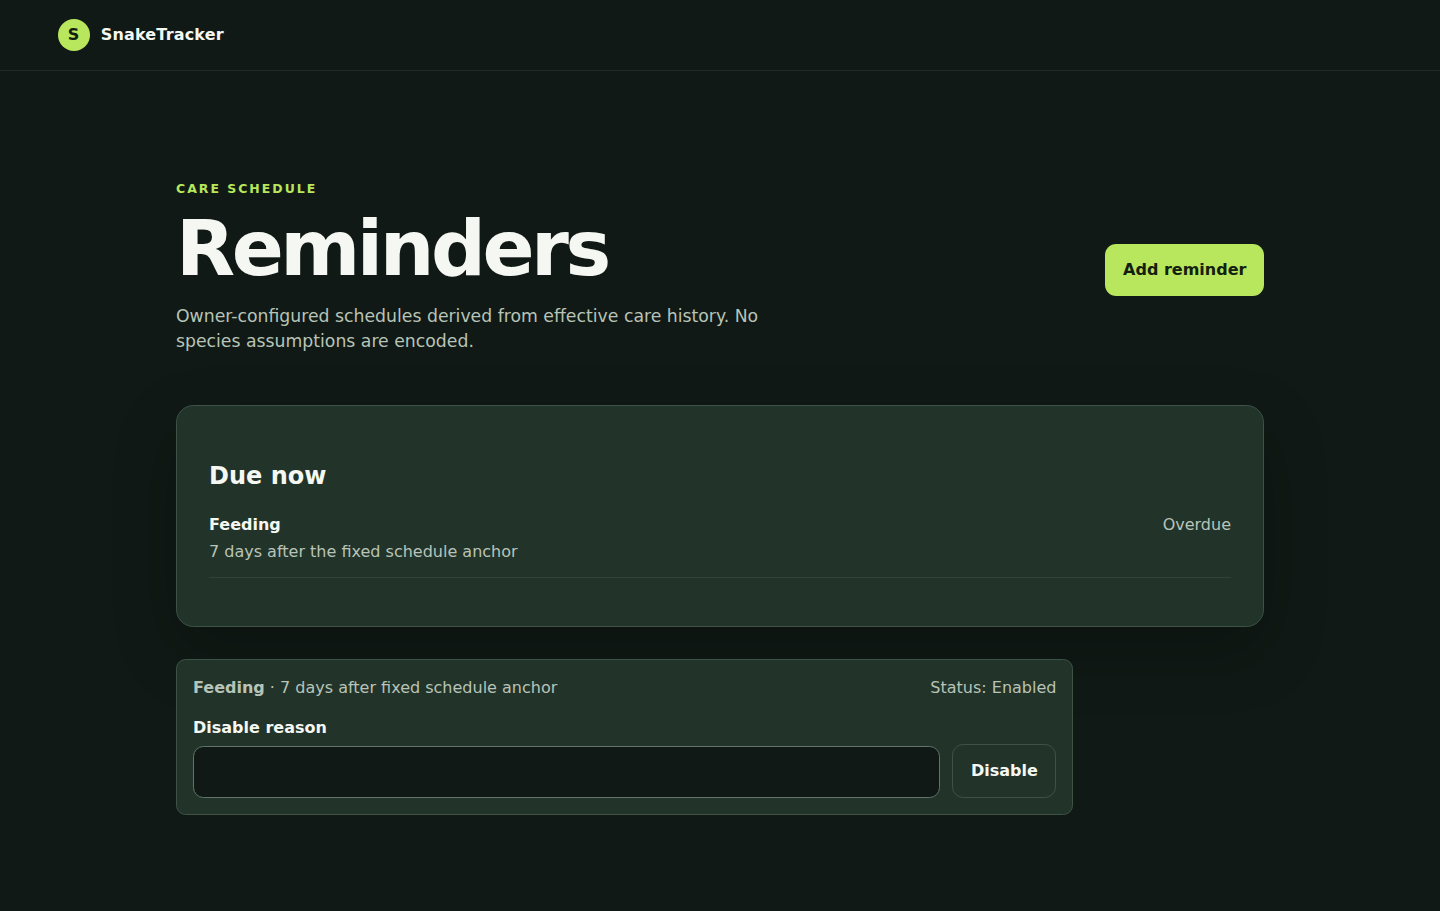
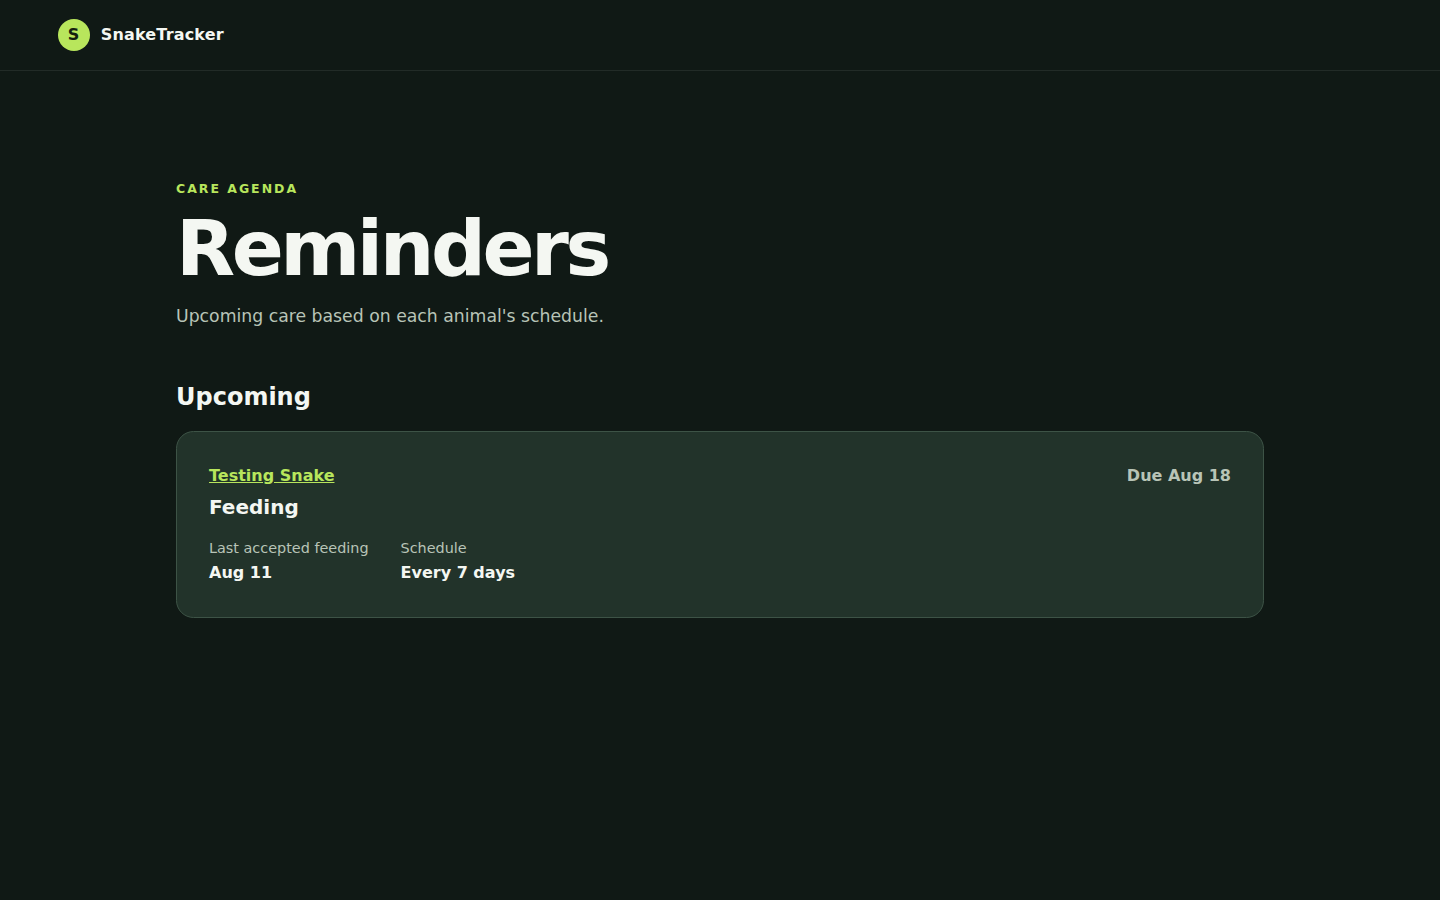
docs: requalify M5 reminder experience

diff --git a/docs/evidence/m5-operations/browser/README.md b/docs/evidence/m5-operations/browser/README.md
@@ -2,22 +2,26 @@
 
 Result: **Pass**
 
-Source revision: `f976b4622a0f72bd165c906cdc8ab5d72a399cc6`  
-Browser: Playwright Chromium against an isolated fresh Docker database.  
+Source revision: `567887cc95702fa0407cebdf12d33e22b11dd8fb`
+Browser: Playwright Chromium against an isolated fresh Docker database.
 Reviewer: Codex local qualification; owner acceptance pending.
 
-The real-browser run completed first household setup, authentication, inventory creation, stock
-receipt, animal creation, authorized expense entry, and a fixed-schedule reminder. The reminder
-rendered as due with a human-readable explanation. The browser console reported zero errors and
-zero warnings. A 390 by 844 viewport had a 390-pixel document width, proving no horizontal
-overflow on the reminder workflow.
+The original real-browser run completed first household setup, authentication, inventory creation,
+stock receipt, animal creation, and authorized expense entry. The corrected reminder-UX run used a
+fresh isolated Docker database, recorded an accepted feeding, configured a seven-day feeding
+schedule from the animal profile, and verified the resulting upcoming agenda item. The normal
+agenda exposed neither an Add Reminder action nor rule-disable administration. The browser console
+reported zero errors and zero warnings. Both the animal schedule and agenda had a 390-pixel
+document width at a 390 by 844 viewport, proving no horizontal overflow.
 
 Retained screenshots:
 
 - [Desktop home](desktop-home.png)
 - [Desktop inventory](desktop-inventory.png)
 - [Desktop expense detail](desktop-expense-detail.png)
+- [Desktop animal care schedule](desktop-animal-care-schedule.png)
 - [Desktop reminders](desktop-reminders.png)
+- [Mobile animal care schedule](mobile-animal-care-schedule.png)
 - [Mobile reminders](mobile-reminders.png)
 
 `desktop-expenses.png` retains the required-field validation state that preceded successful entry;

diff --git a/docs/evidence/m5-operations/tests/reminders.md b/docs/evidence/m5-operations/tests/reminders.md
@@ -2,14 +2,18 @@
 
 Result: **Pass**
 
-Source revision: `f976b4622a0f72bd165c906cdc8ab5d72a399cc6`  
+Source revision: `567887cc95702fa0407cebdf12d33e22b11dd8fb`
 Reviewer: Codex local qualification; owner acceptance pending.
 
 The suite verifies fixed and event-relative owner-configured schedules, UTC storage with household
 timezone presentation, subject registration and ownership, calculation provenance, owner due-date
 overrides, and latest-effective-history recalculation after correction, void, reinstatement, and
-authoritative replay. Repeated scans, worker restarts, and duplicate execution remain idempotent.
-No species advice or Phase 6 prediction logic is encoded.
+authoritative replay. Profile saves create or update one logical rule, reject stale versions,
+disable without a keeper-facing audit-reason field, and fail closed for unsupported or missing
+subjects. Feeding refusals and regurgitations do not reset accepted-feeding schedules. Weight,
+length, bath, cleaning, and water-change schedules retain their established effective source-event
+rules. Repeated scans, worker restarts, and duplicate execution remain idempotent. No species
+advice or Phase 6 prediction logic is encoded.
 
 Reproduce:
 
@@ -17,5 +21,7 @@ Reproduce:
 uv run pytest -q tests/integration/test_reminders.py tests/browser/test_operational_workflows.py
 ```
 
-The retained browser workflow shows a due feeding reminder explained as seven days after the fixed
-schedule anchor.
+The retained browser workflow shows a feeding interval configured on the animal profile and its
+calculated upcoming item in the care agenda. Automated browser coverage also proves overdue,
+due-today, and upcoming grouping; no ordinary Add Reminder, disable-reason, or technical controls
+appear on the agenda.

diff --git a/docs/evidence/m5-operations/reviews/README.md b/docs/evidence/m5-operations/reviews/README.md
@@ -2,12 +2,16 @@
 
 Status: **Local implementation review complete; hosted review pending**
 
-Source revision: `f976b4622a0f72bd165c906cdc8ab5d72a399cc6`.
+Source revision: `567887cc95702fa0407cebdf12d33e22b11dd8fb`.
 
 Local review concentrated on transaction atomicity, stream versions, inventory compensation,
 tenant authorization, reminder effective history, independent pipeline deduplication, lease
-fencing, dead-letter behavior, and the external-effect uncertain crash window. Required local
-corrections were implemented test-first before qualification.
+fencing, dead-letter behavior, and the external-effect uncertain crash window. The owner's first
+M5 UX review classified the standalone reminder-management flow as a required correction. The
+keeper workflow was moved to animal-profile care schedules and an overdue/due-today/upcoming
+agenda, with the established reminder engine and delivery pipeline preserved. Required corrections
+and coverage gaps were implemented test-first before requalification. Owner re-review remains
+pending.
 
 The full gate reports only two non-blocking upstream observations: Starlette's TestClient adapter
 warns about its future `httpx2` transition, and an intermittent SQLAlchemy cleanup ResourceWarning

diff --git a/docs/evidence/m5-operations/README.md b/docs/evidence/m5-operations/README.md
@@ -4,12 +4,14 @@ Status: **M5 implementation-qualified; owner acceptance pending**
 
 - Qualification date: August 11, 2026
 - Source branch: `phase5/operational-workflows`
-- Qualified implementation revision: `f976b4622a0f72bd165c906cdc8ab5d72a399cc6`
+- Qualified implementation revision: `567887cc95702fa0407cebdf12d33e22b11dd8fb`
 - Environment: approved laptop/Docker development environment
 
 This package proves the Phase 5 inventory, expense, reminder, notification-pipeline, and durable-job
-release blockers on the supported local development topology. It does not record owner acceptance,
-authorize M6, approve remote/public deployment, or claim Raspberry Pi deployment qualification.
+release blockers on the supported local development topology. The corrected keeper workflow now
+configures ordinary care intervals from each animal profile and presents calculated care in an
+overdue/due-today/upcoming agenda. It does not record owner acceptance, authorize M6, approve
+remote/public deployment, or claim Raspberry Pi deployment qualification.
 
 ## Evidence inventory
 

diff --git a/docs/plans/2026-08-10-phase-5-operational-workflows.md b/docs/plans/2026-08-10-phase-5-operational-workflows.md
@@ -231,9 +231,12 @@ registered.
 
 Test desktop/mobile navigation, values and units, correction/compensation explanations, conflict
 pages, keyboard/focus/error summaries, dead-letter/reconciliation status, protected routes, CSRF,
-and no leakage across households. Reminder views must explain calculations such as “10 days after
-last accepted feeding” while keeping event IDs behind technical disclosure. Do not add M6
-dashboards, charts, search, predictions, recommendations, or PWA behavior.
+and no leakage across households. Ordinary reminder schedules are configured from each animal
+profile and automatically maintain one logical underlying rule. The Reminders page is a care agenda
+grouped as overdue, due today, and upcoming; it explains calculations such as “10 days after last
+accepted feeding” without ordinary rule-management controls. Event IDs remain behind technical
+disclosure. Do not add M6 dashboards, charts, search, predictions, recommendations, or PWA
+behavior.
 
 ### Task 12: M5 qualification and evidence
 

diff --git a/docs/evidence/m5-operations/accessibility/README.md b/docs/evidence/m5-operations/accessibility/README.md
@@ -2,13 +2,15 @@
 
 Result: **Pass for the M5 implementation gate**
 
-Source revision: `f976b4622a0f72bd165c906cdc8ab5d72a399cc6`  
+Source revision: `567887cc95702fa0407cebdf12d33e22b11dd8fb`
 Reviewer: Codex local qualification; owner acceptance pending.
 
 Playwright accessibility snapshots verify one main landmark, ordered headings, explicit labels,
 keyboard-reachable links and buttons, a skip link, accessible form errors, and meaningful status
-text across inventory, expenses, reminders, and operations. Desktop and 390 by 844 mobile browser
-workflows completed without horizontal overflow or console errors.
+text across inventory, expenses, animal-profile care schedules, the care agenda, and operations.
+Each schedule is an explicitly headed article with labeled enabled, interval, due-date, and save
+controls. Desktop and 390 by 844 mobile browser workflows completed without horizontal overflow or
+console errors.
 
 Pa11y 9 with the axe runner reported `No issues found!` at WCAG 2 AA on the live login boundary:
 

diff --git a/docs/evidence/m5-operations/containers/README.md b/docs/evidence/m5-operations/containers/README.md
@@ -2,8 +2,8 @@
 
 Result: **Pass**
 
-Source revision: `f976b4622a0f72bd165c906cdc8ab5d72a399cc6`  
-Environment: Docker Engine 29.1.3; Compose 2.40.3; WSL2 x86_64 laptop.  
+Source revision: `567887cc95702fa0407cebdf12d33e22b11dd8fb`
+Environment: Docker Engine 29.1.3; Compose 2.40.3; WSL2 x86_64 laptop.
 Reviewer: Codex local qualification; owner acceptance pending.
 
 The amd64 Compose lifecycle migrated the retained local database to `0009_operational_workflows`.
@@ -16,8 +16,8 @@ and 8.14 MiB Nginx. These are development observations, not Raspberry Pi qualifi
 The linux/arm64 OCI build completed with:
 
 - descriptor platform: `linux/arm64`
-- image digest: `sha256:c5bd7bf40915068b67f6f412c62c8c78b263e866ffacdfbacb11eda3b82ea2d7`
-- archive size: 133,572,096 bytes
+- image digest: `sha256:8ed93d38305ce8806764afc7e577b74c06eb05a1efaf3c434c2e85334ece78e1`
+- archive size: 133,626,880 bytes
 
 Reproduce:
 

diff --git a/docs/evidence/m5-operations/operations/compatibility.md b/docs/evidence/m5-operations/operations/compatibility.md
@@ -2,14 +2,14 @@
 
 Result: **Pass**
 
-Source revision: `f976b4622a0f72bd165c906cdc8ab5d72a399cc6`  
+Source revision: `567887cc95702fa0407cebdf12d33e22b11dd8fb`
 Reviewer: Codex local qualification; owner acceptance pending.
 
 The forward revision is `0009_operational_workflows`. A fresh isolated SQLite database upgraded to
 head, downgraded to base, and re-upgraded to the same head; `PRAGMA integrity_check` returned `ok`.
 The migration lifecycle leaves the accepted Phase 2 household and Phase 3/4 event contracts
 unchanged. A focused compatibility, event-store, animal-care, backup, and maintenance regression
-run passed 38 tests in 4.77 seconds.
+run passed 38 tests in 4.65 seconds.
 
 Reproduce:
 

diff --git a/docs/evidence/m5-operations/tests/inventory.md b/docs/evidence/m5-operations/tests/inventory.md
@@ -2,7 +2,7 @@
 
 Result: **Pass**
 
-Source revision: `f976b4622a0f72bd165c906cdc8ab5d72a399cc6`  
+Source revision: `567887cc95702fa0407cebdf12d33e22b11dd8fb`
 Reviewer: Codex local qualification; owner acceptance pending.
 
 The integration suite verifies household isolation, expected stream versions, command
@@ -18,4 +18,4 @@ uv run pytest -q tests/integration/test_inventory.py
 uv run pytest -q tests/integration/test_inventory.py tests/browser/test_operational_workflows.py
 ```
 
-The final combined M5 focused run passed 46 tests. The full repository gate passed 300 tests.
+The final combined M5 focused run passed 51 tests. The full repository gate passed 305 tests.

diff --git a/docs/evidence/m5-operations/tests/external-effects.md b/docs/evidence/m5-operations/tests/external-effects.md
@@ -2,7 +2,7 @@
 
 Result: **Pass**
 
-Source revision: `f976b4622a0f72bd165c906cdc8ab5d72a399cc6`  
+Source revision: `567887cc95702fa0407cebdf12d33e22b11dd8fb`
 Reviewer: Codex local qualification; owner acceptance pending.
 
 External execution is explicitly at least once. The local qualification provider records a stable

diff --git a/docs/evidence/m5-operations/tests/expenses.md b/docs/evidence/m5-operations/tests/expenses.md
@@ -2,7 +2,7 @@
 
 Result: **Pass**
 
-Source revision: `f976b4622a0f72bd165c906cdc8ab5d72a399cc6`  
+Source revision: `567887cc95702fa0407cebdf12d33e22b11dd8fb`
 Reviewer: Codex local qualification; owner acceptance pending.
 
 Tests prove Owner and Administrator authorization, household isolation, validation, idempotency,

diff --git a/docs/evidence/m5-operations/security/authorization.md b/docs/evidence/m5-operations/security/authorization.md
@@ -2,7 +2,7 @@
 
 Result: **Pass**
 
-Source revision: `f976b4622a0f72bd165c906cdc8ab5d72a399cc6`  
+Source revision: `567887cc95702fa0407cebdf12d33e22b11dd8fb`
 Reviewer: Codex local qualification; owner acceptance pending.
 
 Every keeper route rechecks current household membership and capability. Inventory and reminder
